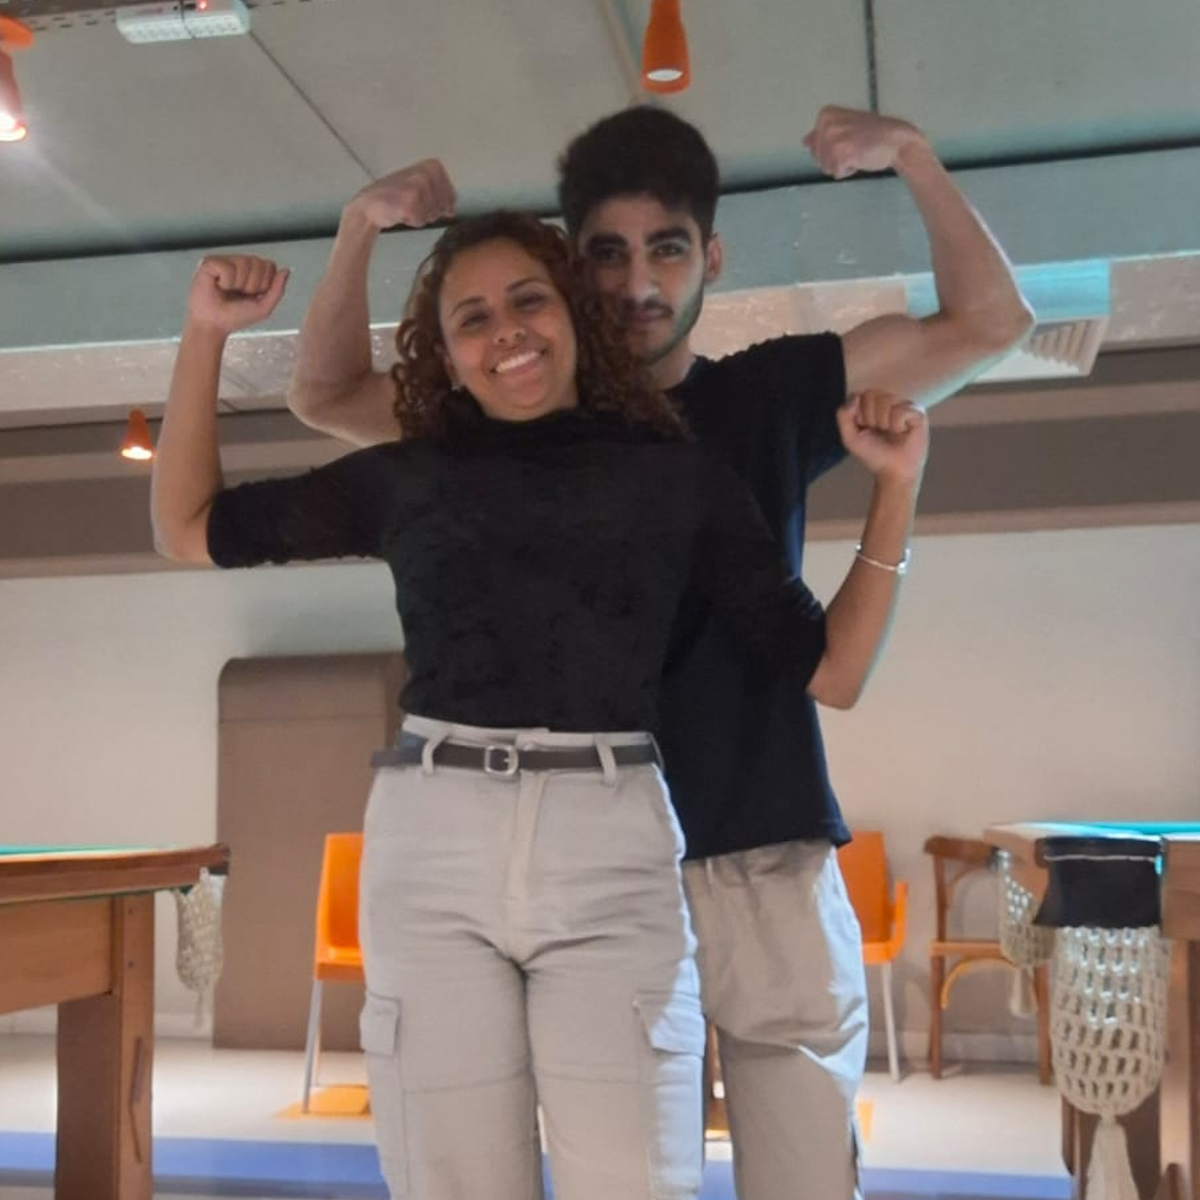
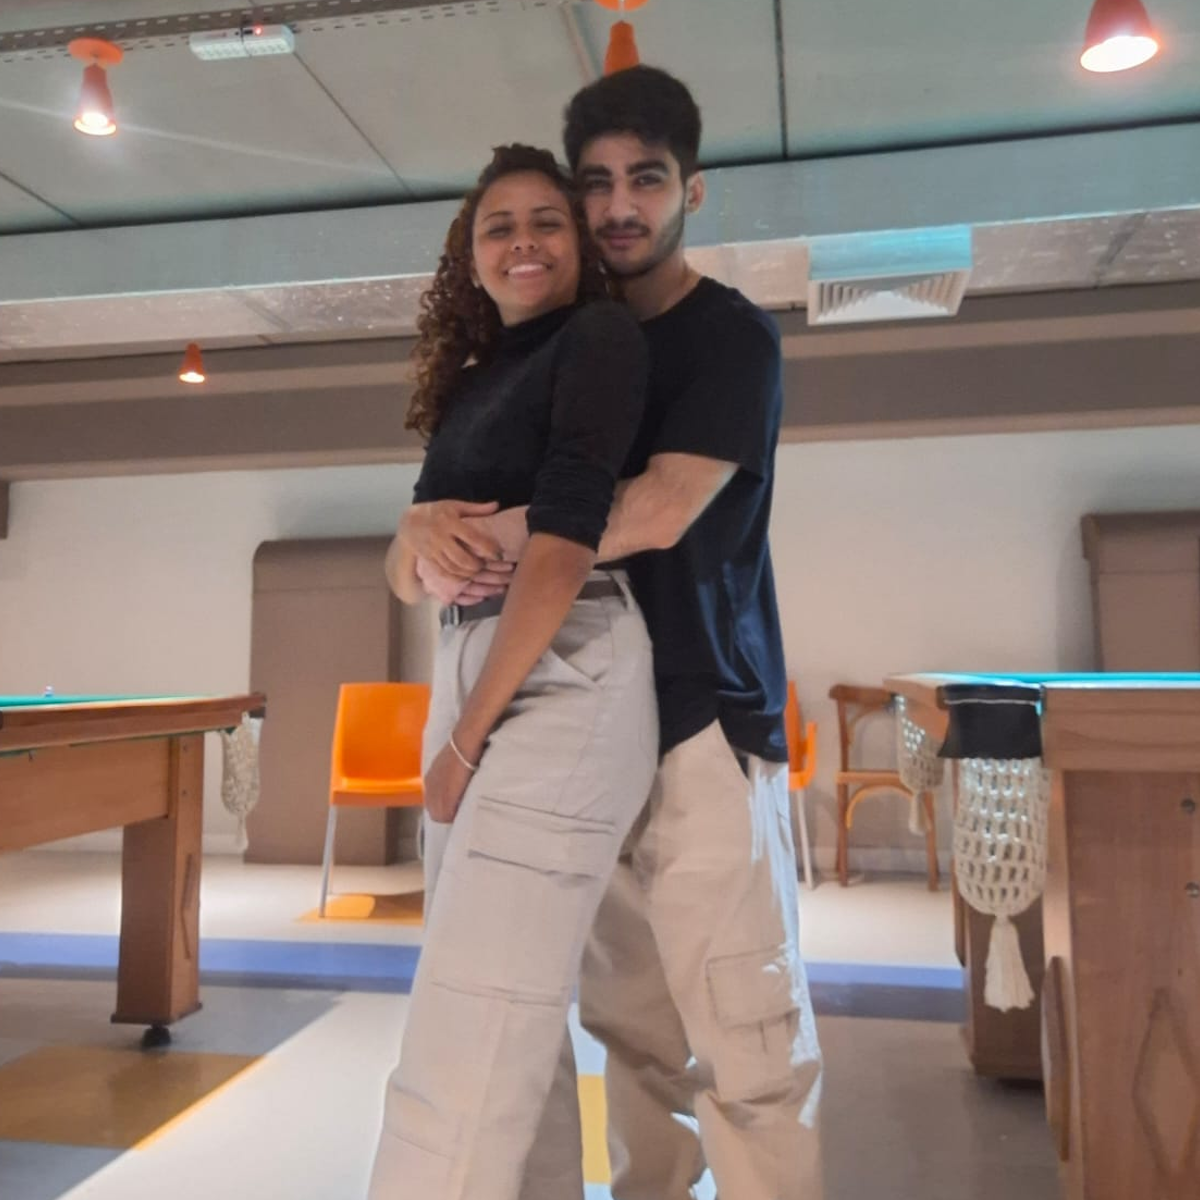
update: gallery with 12 photos

diff --git a/js/gallery.js b/js/gallery.js
@@ -4,7 +4,13 @@ const galleryImages = [
   'gallery/p3.png',
   'gallery/p4.png',
   'gallery/p5.png',
-  'gallery/p6.png'
+  'gallery/p6.png',
+  'gallery/p7.png',
+  'gallery/p8.png',
+  'gallery/p9.png',
+  'gallery/p10.png',
+  'gallery/p11.png',
+  'gallery/p12.png',
 ];
 
 const galleryGrid = document.getElementById('gallery-grid');
@@ -21,6 +27,7 @@ function closeImage() {
 }
 
 function buildGallery() {
+  galleryImages.reverse();
   for (let i = 0; i < galleryImages.length; i++) {
     const src = galleryImages[i];
 
